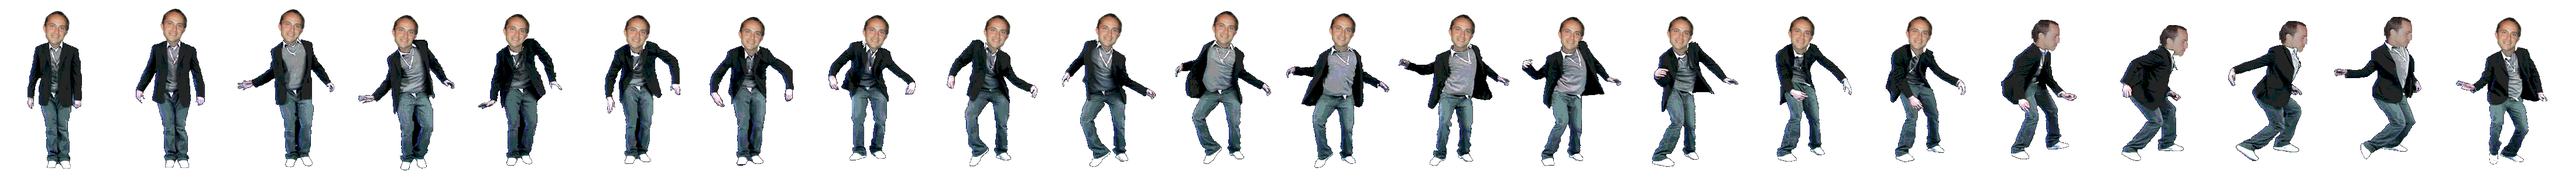
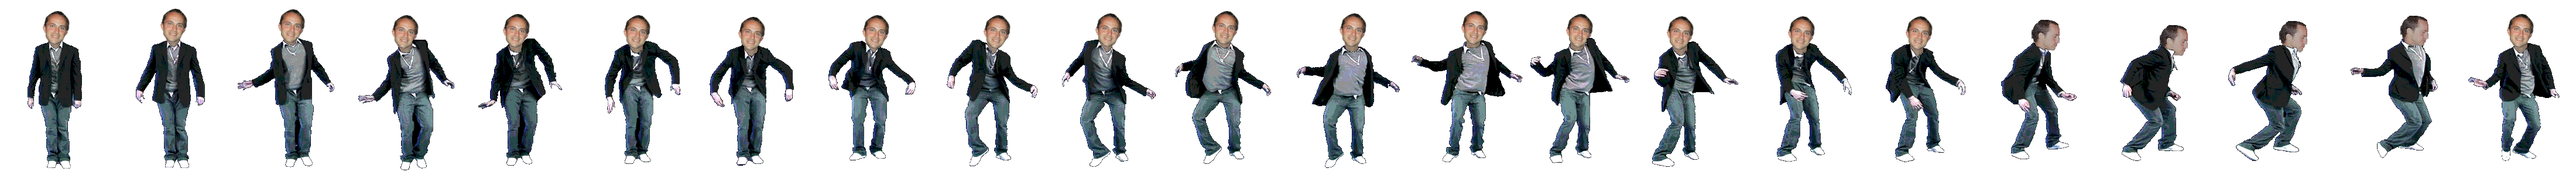
update

Changed region(s): [[0.4982, 0.06, 0.6539, 0.93], [0.903, 0.09, 0.9964, 0.93]]

diff --git a/js/preload.js b/js/preload.js
@@ -4,12 +4,12 @@ function preload() {
   this.load.audio('groove', 'groovesong.mp3');
   this.load.path = '../assets/images/';
   this.load.spritesheet('idle', 'idle.png', {frameWidth: 105, frameHeight: 300});
-  this.load.spritesheet('gliding', 'gliding.png', {frameWidth: 160, frameHeight: 300});
+  this.load.spritesheet('gliding', 'gliding.png', {frameWidth: 159, frameHeight: 300});
   this.load.spritesheet('locking', 'locking.png', {frameWidth: 200, frameHeight: 300});
   this.load.spritesheet('popping', 'popping.png', {frameWidth: 200, frameHeight: 300});
-  this.load.spritesheet('puppet', 'puppet.png', {frameWidth: 200, frameHeight: 300});
+  this.load.spritesheet('puppet', 'puppet.png', {frameWidth: 180, frameHeight: 300});
   this.load.spritesheet('robot', 'robot.png', {frameWidth: 200, frameHeight: 300});
   this.load.spritesheet('snaking', 'snaking.png', {frameWidth: 200, frameHeight: 300});
-  this.load.spritesheet('waving', 'waving.png', {frameWidth: 200, frameHeight: 300});
-  this.load.spritesheet('boogaloo', 'boogaloo.png', {frameWidth: 200, frameHeight: 300});
+  this.load.spritesheet('waving', 'waving.png', {frameWidth: 179, frameHeight: 300});
+  this.load.spritesheet('boogaloo', 'boogaloo.png', {frameWidth: 166, frameHeight: 300});
 }

diff --git a/js/game.js b/js/game.js
@@ -28,7 +28,7 @@ function create() {
     this.anims.create({
       key: style,
       frames: this.anims.generateFrameNumbers(style, {}),
-      frameRate: 16,
+      frameRate: 8,
       repeat: -1,
     });
     dudeStyle.visible = false;
@@ -39,8 +39,7 @@ function create() {
   dude[0].anims.play(buttons[0].tag);
   buttons[0].setTint(0x0ff000);
  
-  //dude.anims.play('idle');
-  // groovesong = this.sound.add('groove');
+   // groovesong = this.sound.add('groove');
   // groovesong.setLoop(true);
   // groovesong.play();
 
